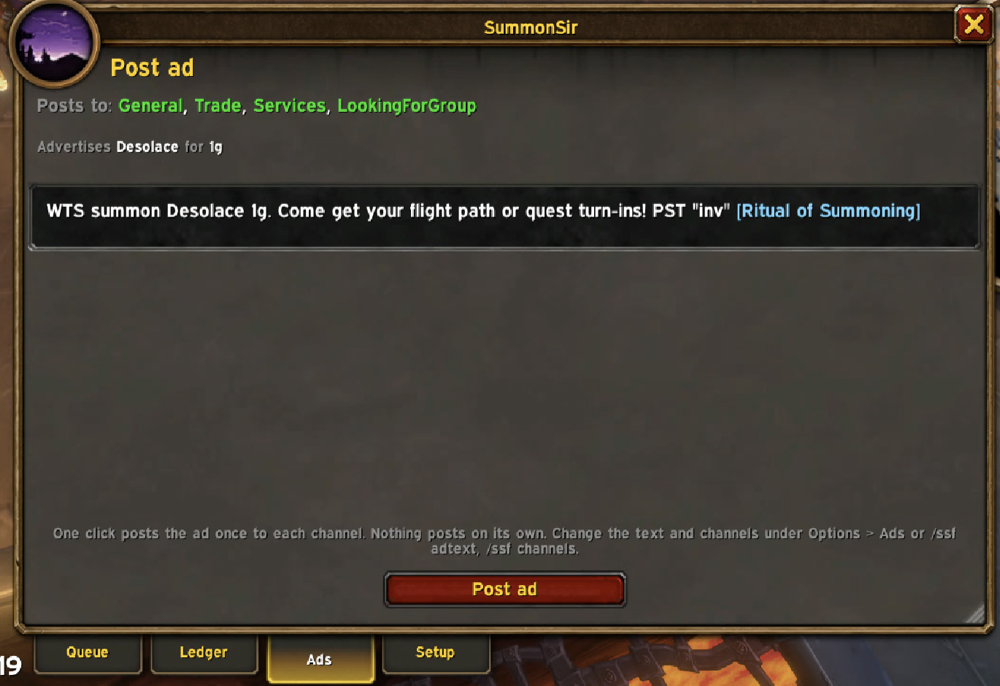
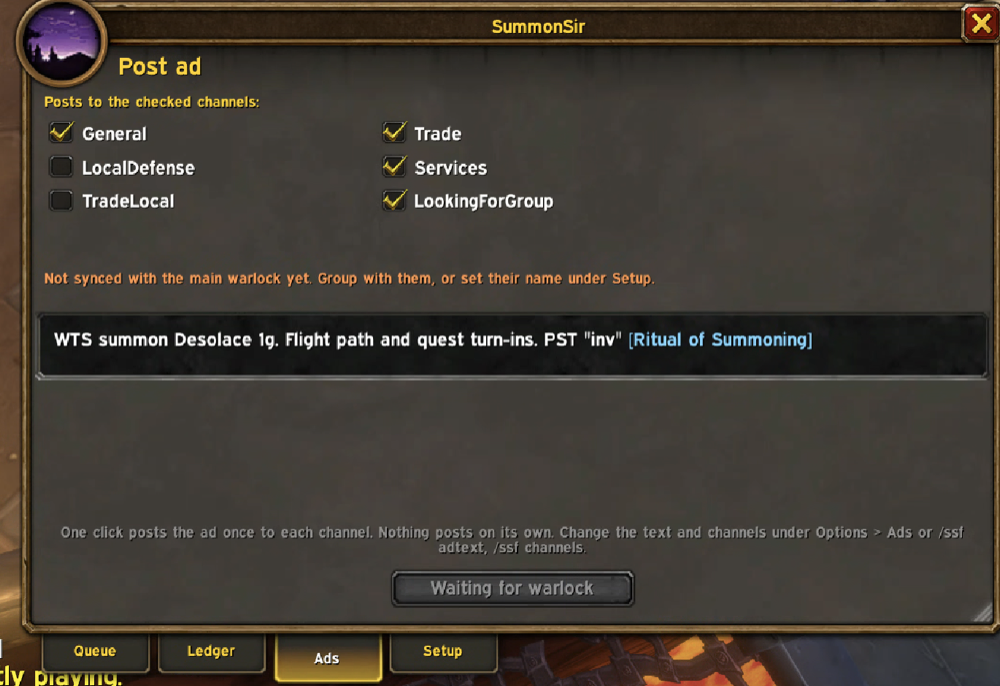
w22: one-line background-sound status on the clicker page; README gets the checkbox Ads tab and the clicker setup page

Changed region(s): [[0.0, 0.0, 1.0, 1.0]]

diff --git a/README.md b/README.md
@@ -23,6 +23,8 @@ The window opens on the **Setup** tab the first time each character logs in. Pic
 | **Clicker** | anyone standing at the destination to click the portal | sound plays while the window is in the background (this is the cue), plus the optional Interact key setup |
 | **Advertiser** | a character parked in a city | which chat channels the ad posts to, with Join buttons for any you have not joined |
 
+<p align="center"><img src="./img/setup-clicker.png" alt="The clicker setup page: each check has a status line and a button" width="760"/></p>
+
 Every tab is visible to every role, so a clicker can read the ledger and the advertiser can watch the queue. Rerun setup any time from the Setup tab or `/ssf setup`.
 
 ## How a sale works
@@ -49,7 +51,7 @@ Every tab is visible to every role, so a clicker can read the ledger and the adv
 - **Options** opens the settings page.
 
 ### Ads
-<p align="center"><img src="./img/ads.png" alt="The Ads tab: channels, sync state, the ad as it will read, Post ad" width="760"/></p>
+<p align="center"><img src="./img/ads.png" alt="The Ads tab: channel checkboxes, sync state, the ad as it will read, Post ad" width="760"/></p>
 
 - One checkbox per chat channel this character has joined: tick the ones the ad goes to (default: General, Trade, Services, LookingForGroup). Then the sync state with the warlock, and the ad exactly as it will read.
 - **Post ad** posts once to each channel, then counts down the cooldown. Nothing posts on its own. On an advertiser the button reads "Waiting for warlock" until the warlock's destination and price have synced (group with them, or set their name in Setup).

diff --git a/CHANGELOG.md b/CHANGELOG.md
@@ -1,5 +1,9 @@
 # Changelog
 
+## 1.0.0-w22 (2026-11-12): one-line status on the clicker page
+
+- The clicker setup page's "hear it in the background" status fits on one line, so step 4 no longer crowds it.
+
 ## 1.0.0-w21 (2026-11-12): channel checkboxes, ad text per destination
 
 - **Ad channels are checkboxes.** The Ads tab and the advertiser setup page list every chat channel this character has joined, one checkbox each; tick the ones the ad should go to. The long channel line that wrapped into the text below it is gone. The list is still saved by channel name, so /ssf channels and the settings box keep working, and a channel you listed but have not joined shows in orange.
